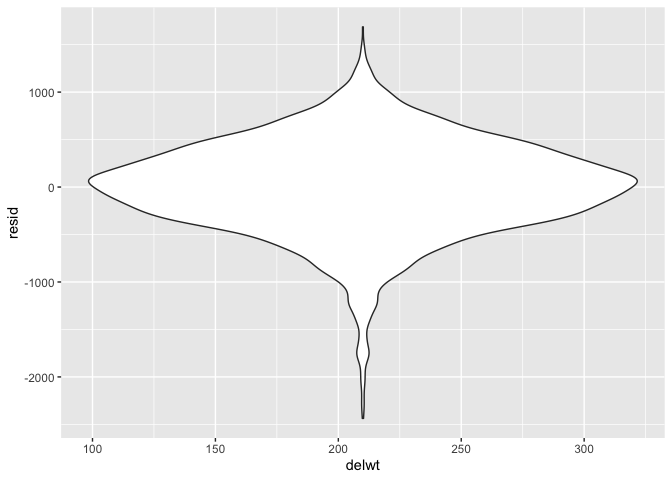
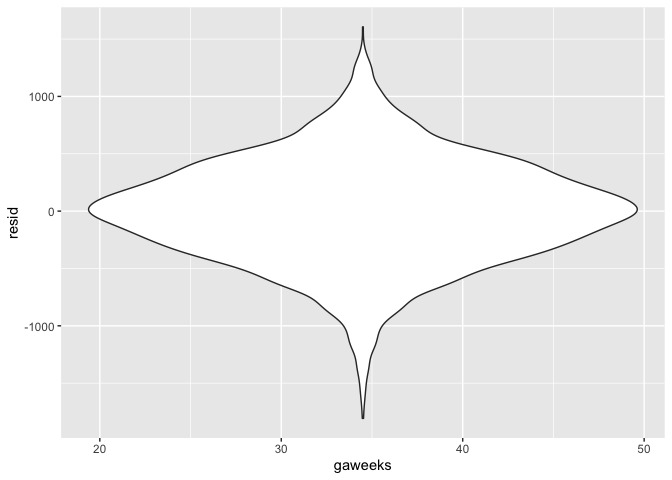
problem2

diff --git a/p8105_hw6_yg2762.md b/p8105_hw6_yg2762.md
@@ -63,22 +63,29 @@ birthweight =
     ## ℹ Specify the column types or set `show_col_types = FALSE` to quiet this message.
 
 ``` r
-model_1 = lm(bwt ~ delwt, data = birthweight)
+model_1 = lm(bwt ~ delwt + gaweeks, data = birthweight)
 ```
 
 ``` r
 model_1_df = birthweight %>% 
-  select(bwt, delwt) %>% 
+  select(bwt, delwt, gaweeks) %>% 
   modelr::add_residuals(model_1) %>% 
   modelr::add_predictions(model_1)
 ```
 
 ``` r
 model_1_df %>% 
-  ggplot(aes(x=delwt, y=resid)) + geom_violin()
+  ggplot(aes(x = gaweeks, y=resid)) + geom_violin()
 ```
 
 ![](p8105_hw6_yg2762_files/figure-gfm/unnamed-chunk-5-1.png)<!-- -->
+
+``` r
+model_1_df %>% 
+  ggplot(aes(x = delwt, y=resid)) + geom_violin()
+```
+
+![](p8105_hw6_yg2762_files/figure-gfm/unnamed-chunk-6-1.png)<!-- -->
 
 ``` r
 cv_df = 
@@ -87,9 +94,9 @@ cv_df =
     train = map(train, as_tibble),
     test = map(test, as_tibble)) %>% 
   mutate(
-    model_1 = map(train, ~lm(bwt ~ delwt, data = .x)),
+    model_1 = map(train, ~lm(bwt ~ delwt + gaweeks, data = .x)),
     model_2 = map(train, ~lm(bwt ~ blength + gaweeks, data = .x)),
-    model_3 = map(train, ~lm(bwt ~ bhead + blength + babysex + bhead*blength*babysex, data = .x))) %>% 
+    model_3 = map(train, ~lm(bwt ~ gaweeks + bhead + blength + babysex + bhead*blength*babysex, data = .x))) %>% 
   mutate(
    rmse_model_1 = map2_dbl(model_1, test, ~rmse(model = .x, data = .y)),
    rmse_model_2 = map2_dbl(model_2, test, ~rmse(model = .x, data = .y)),
@@ -110,7 +117,7 @@ cv_df_plot = cv_df %>%
 cv_df_plot
 ```
 
-![](p8105_hw6_yg2762_files/figure-gfm/unnamed-chunk-7-1.png)<!-- -->
+![](p8105_hw6_yg2762_files/figure-gfm/unnamed-chunk-8-1.png)<!-- -->
 
 According to the cross validation results, `model_3`is the best model
 for the data compared to the other two.
@@ -158,7 +165,7 @@ boot_sample(weather_df) %>%
 
     ## `geom_smooth()` using formula 'y ~ x'
 
-![](p8105_hw6_yg2762_files/figure-gfm/unnamed-chunk-10-1.png)<!-- -->
+![](p8105_hw6_yg2762_files/figure-gfm/unnamed-chunk-11-1.png)<!-- -->
 
 ### Run bootstrap
 
@@ -184,7 +191,7 @@ r_results %>%
   ggplot(aes(x = r.squared)) + geom_density()
 ```
 
-![](p8105_hw6_yg2762_files/figure-gfm/unnamed-chunk-13-1.png)<!-- -->
+![](p8105_hw6_yg2762_files/figure-gfm/unnamed-chunk-14-1.png)<!-- -->
 
 The distribution of R-squared is relatively normal with a little tail to
 lower values, indicating there might have large outliers in the boot
@@ -198,9 +205,9 @@ r_results %>%
   knitr::kable()
 ```
 
-|  ci_lower | ci_upper |
-|----------:|---------:|
-| 0.8944354 | 0.927304 |
+|  ci_lower |  ci_upper |
+|----------:|----------:|
+| 0.8943361 | 0.9272682 |
 
 ``` r
 beta_results = boot_straps %>% 
@@ -223,7 +230,7 @@ log_beta = beta_results %>%
 ggplot(log_beta,aes(x = log)) + geom_density()
 ```
 
-![](p8105_hw6_yg2762_files/figure-gfm/unnamed-chunk-16-1.png)<!-- -->
+![](p8105_hw6_yg2762_files/figure-gfm/unnamed-chunk-17-1.png)<!-- -->
 
 The distribution of log(beta_0 \*beta) is normal.
 
@@ -237,4 +244,4 @@ log_beta %>%
 
 | ci_lower | ci_upper |
 |---------:|---------:|
-| 1.966283 | 2.058775 |
+| 1.966304 |  2.05923 |
